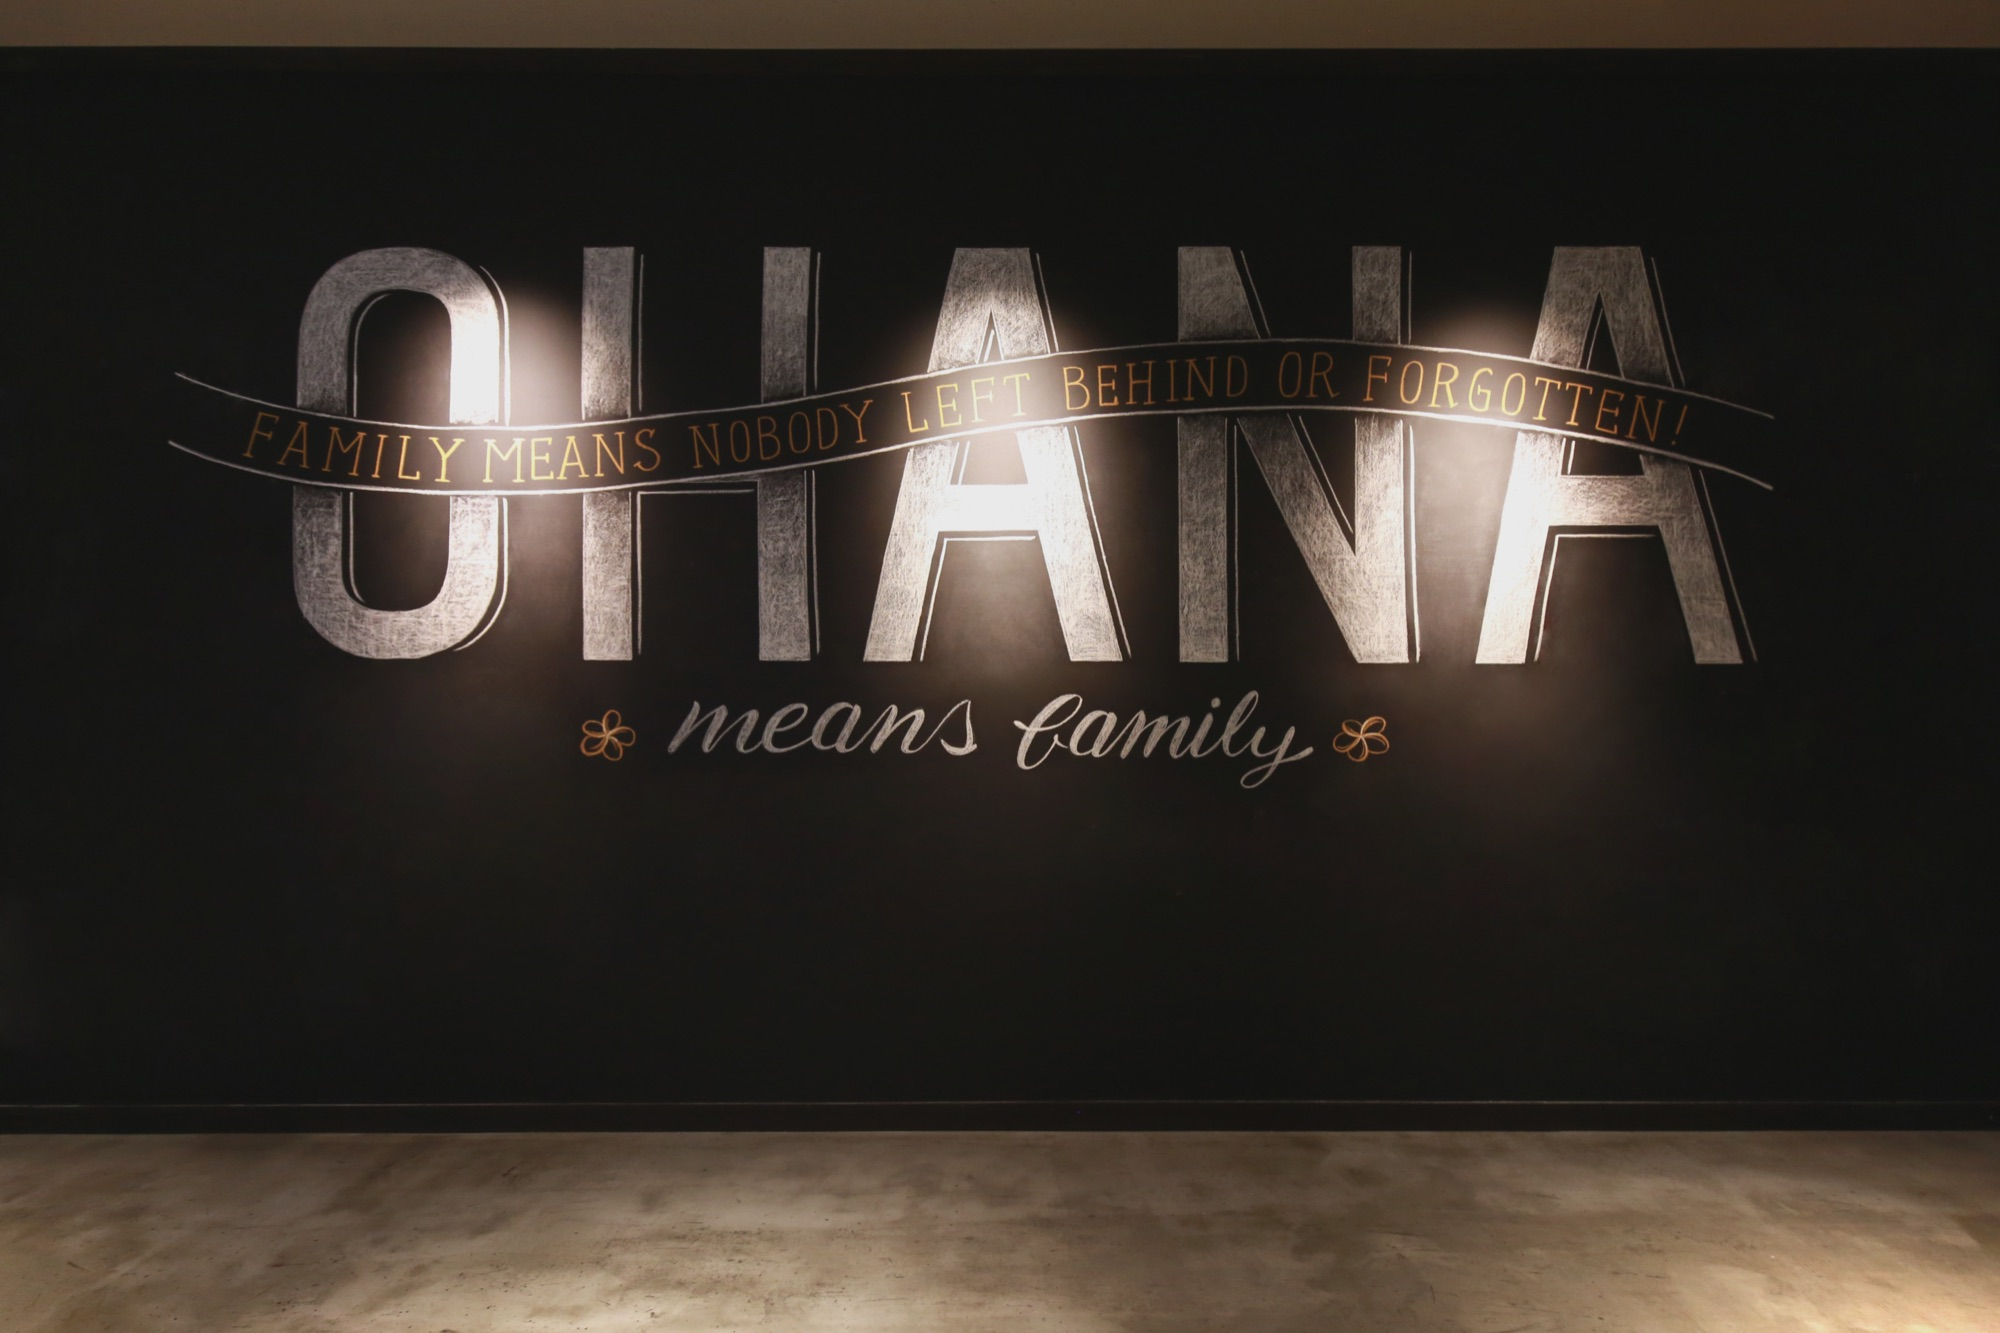
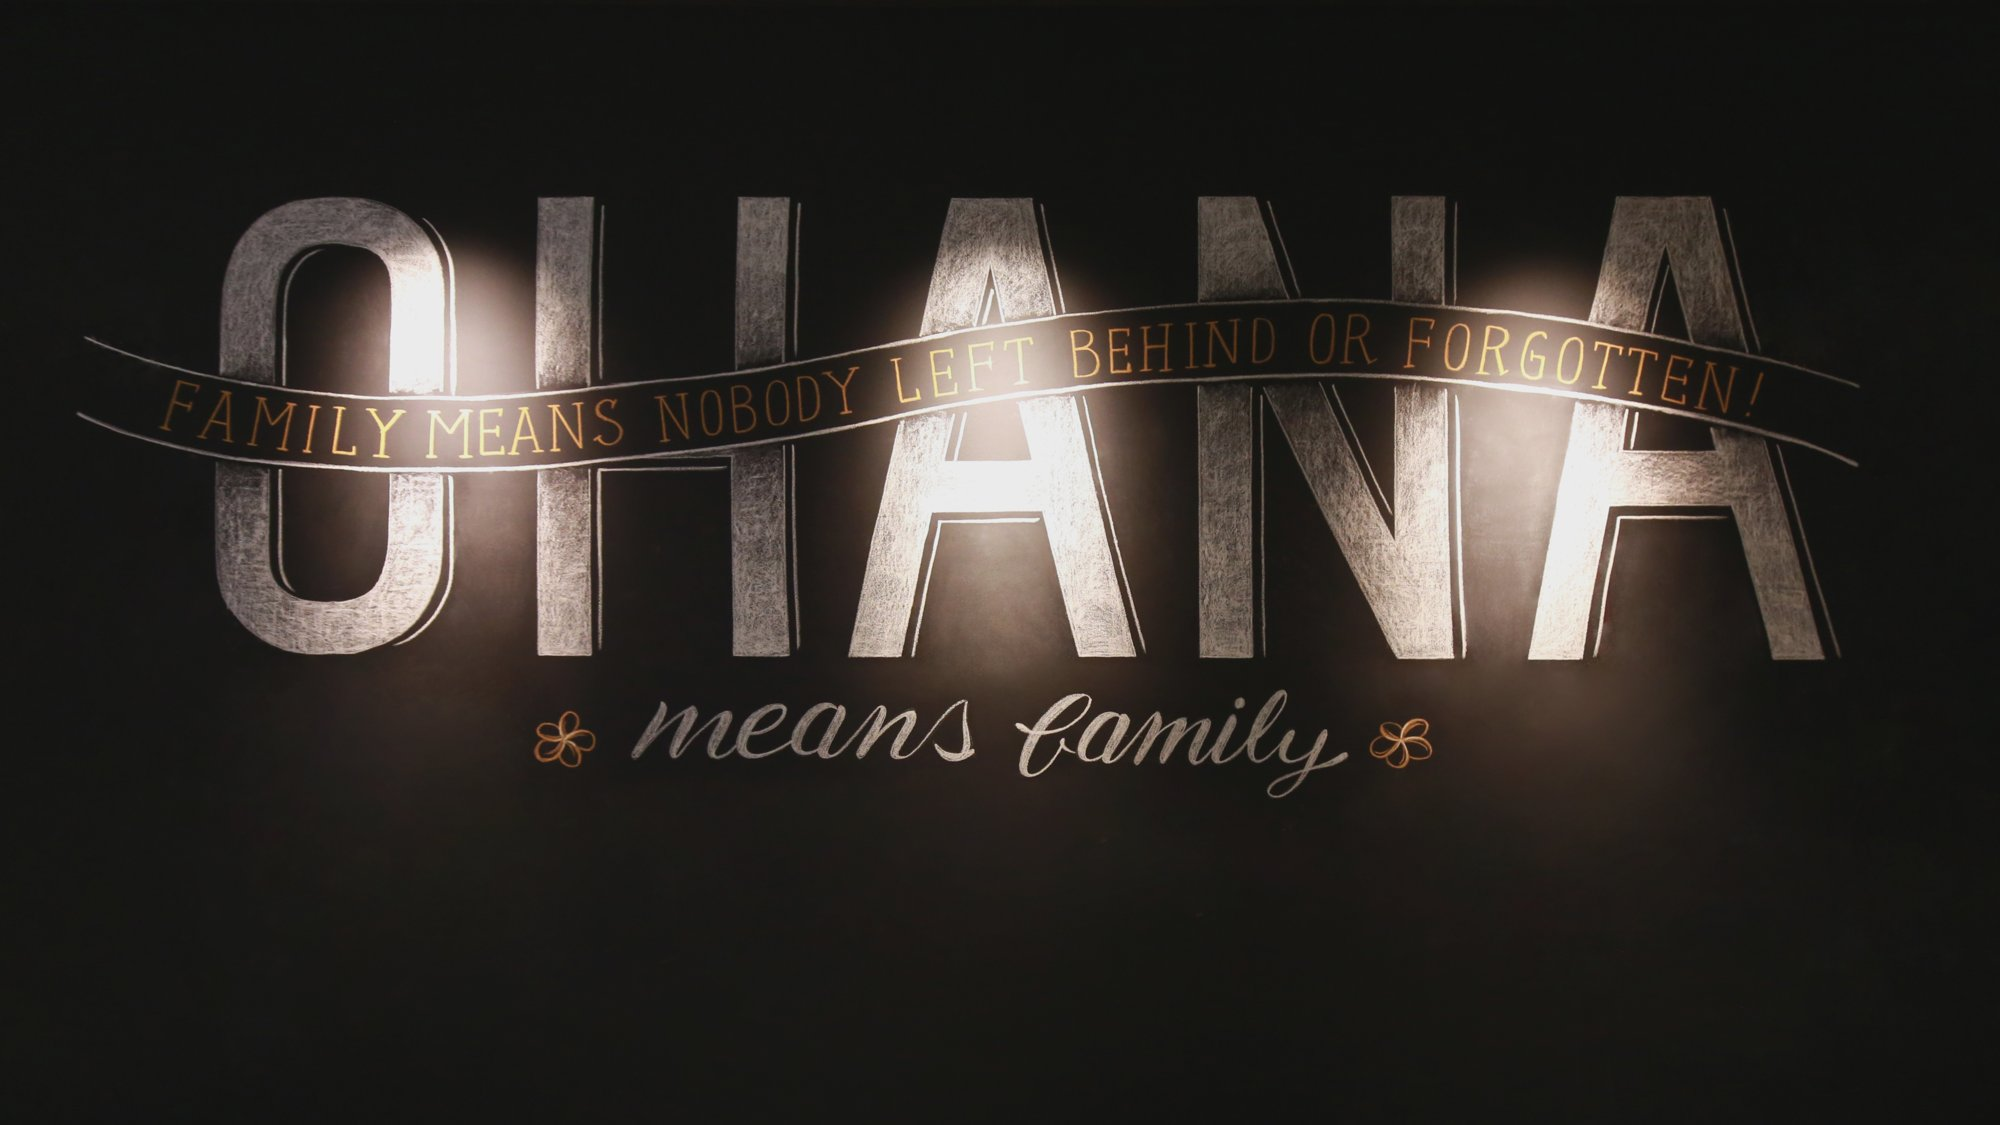
OHANA写真をよりクローズアップにトリミング
文字部分にズームインした16:9クロップに再トリミングし、コンテナのアスペクト比もaspect-[4/3]→aspect-[16/9]に変更（cover表示による二重クロップで文字が切れるのを回避）。新卒・中途とも反映

diff --git a/v8/recruit/career/environment-v8.html b/v8/recruit/career/environment-v8.html
@@ -196,7 +196,7 @@
   <div class="max-w-6xl mx-auto relative z-10">
     <div class="mb-14"><p class="eyebrow mb-4"><span class="en-num">01</span>Our Culture</p><h2 class="sec-title text-4xl lg:text-5xl mb-6">Enjinの文化 ―― <span class="text-red">OHANA</span></h2></div>
     <div class="grid grid-cols-1 lg:grid-cols-2 gap-10 lg:gap-16 items-center">
-      <div class="gc aspect-[4/3]"><div style="background-image:url('../../images/ohana_wall.jpg');"></div></div>
+      <div class="gc aspect-[16/9]"><div style="background-image:url('../../images/ohana_wall.jpg');"></div></div>
       <div>
         <p class="text-2xl lg:text-3xl leading-[1.7] mb-8">私たちは会社を<br class="hidden lg:block" /><span class="text-red font-bold">「OHANA」</span>と呼んでいます。</p>
         <p class="text-[15px] text-gray-700 leading-[2.2] mb-5">OHANAとは、ハワイ語で<span class="font-bold">「精神的・経済的な結びつき」</span>を表す。<br />「みんなで成長する」——それが、Enjinがこの言葉に込めた約束です。</p>

diff --git a/v8/environment-v8.html b/v8/environment-v8.html
@@ -201,7 +201,7 @@
   <div class="max-w-6xl mx-auto relative z-10">
     <div class="mb-14"><p class="eyebrow mb-4"><span class="en-num">01</span>Our Culture</p><h2 class="sec-title text-4xl lg:text-5xl mb-6">Enjinの文化 ―― <span class="text-red">OHANA</span></h2></div>
     <div class="grid grid-cols-1 lg:grid-cols-2 gap-10 lg:gap-16 items-center">
-      <div class="gc aspect-[4/3]"><div style="background-image:url('images/ohana_wall.jpg');"></div></div>
+      <div class="gc aspect-[16/9]"><div style="background-image:url('images/ohana_wall.jpg');"></div></div>
       <div>
         <p class="text-2xl lg:text-3xl leading-[1.7] mb-8">私たちは会社を<br class="hidden lg:block" /><span class="text-red font-bold">「OHANA」</span>と呼んでいます。</p>
         <p class="text-[15px] text-gray-700 leading-[2.2] mb-5">OHANAとは、ハワイ語で<span class="font-bold">「精神的・経済的な結びつき」</span>を表す。<br />「みんなで成長する」——それが、Enjinがこの言葉に込めた約束です。</p>
